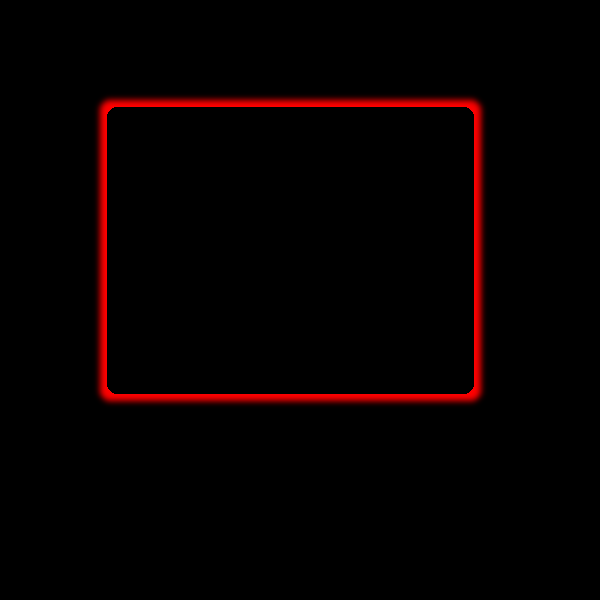
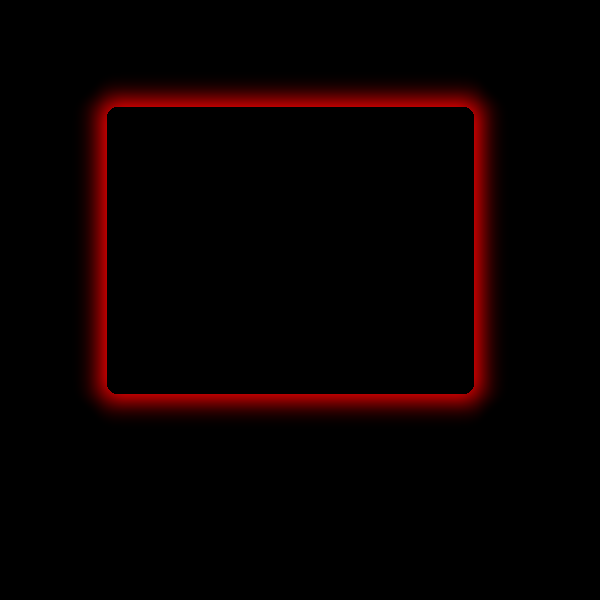
fix: increase the blur intensity on the box shadow

Changed region(s): [[0.12, 0.12, 0.84, 0.72]]

diff --git a/main.py b/main.py
@@ -1,34 +1,37 @@
 
 from PIL import Image, ImageDraw, ImageFilter
 
-img = Image.new("RGB", (600, 600), "white")
-draw = ImageDraw.Draw(img)
+for color in ["aqua", "gray", "lightgreen", "magenta", "orange", "red", "yellow"]:
+    img = Image.new("RGB", (600, 600), "white")
+    draw = ImageDraw.Draw(img)
 
-box_x = 100
-box_y = 100
-box_w = box_x + 280
-box_h = box_y + 200
+    box_x = 100
+    box_y = 100
+    box_w = box_x + 280
+    box_h = box_y + 200
 
-shadow_blur = 3
+    shadow_blur = 3
 
-draw.rectangle((box_x, box_y, box_x + box_w, box_y + box_h), fill="black")
+    draw.rectangle((box_x, box_y, box_x + box_w, box_y + box_h), fill="black")
 
-shadow_img = Image.new("RGBA", (600, 600), "black")
-shadow_draw = ImageDraw.Draw(shadow_img)
-shadow_draw.rounded_rectangle(
-    (box_x, box_y, box_x + box_w, box_y + box_h),
-    radius=10,
-    fill="yellow"
-)
+    shadow_img = Image.new("RGBA", (600, 600), "black")
+    shadow_draw = ImageDraw.Draw(shadow_img)
+    shadow_draw.rounded_rectangle(
+        (box_x, box_y, box_x + box_w, box_y + box_h),
+        radius=10,
+        fill=color
+    )
 
-shadow_img = shadow_img.filter(ImageFilter.GaussianBlur(shadow_blur))
+    blur_intensity = 15
+    for i in range(blur_intensity):
+        shadow_img = shadow_img.filter(ImageFilter.GaussianBlur(shadow_blur))
 
-img.paste(shadow_img, (0, 0), shadow_img)
+    img.paste(shadow_img, (0, 0), shadow_img)
 
-draw.rounded_rectangle(
-    (box_x + 7, box_y + 7, box_x + box_w - 7, box_y + box_h - 7),
-    radius=10,
-    fill="black"
-)
+    draw.rounded_rectangle(
+        (box_x + 7, box_y + 7, box_x + box_w - 7, box_y + box_h - 7),
+        radius=10,
+        fill="black"
+    )
 
-img.show()
+    img.save(f"images/ui/artifact_{color}_quality.png")

diff --git a/images/draw_image.py b/images/draw_image.py
@@ -25,8 +25,8 @@ def draw_artifact_box(
 ):
     path = f"images/ui/artifact_{bg_color}_quality.png"
     artifact_box = Image.open(path)
-    artifact_box = artifact_box.crop((100, 100, 480, 400)).resize((280, 200))
-    im.paste(artifact_box, (x, y))
+    artifact_box = artifact_box.crop((85, 85, 495, 415)).resize((285, 210))
+    im.paste(artifact_box, (x, y - 5))
 
 
 def draw_artifact_substats(
